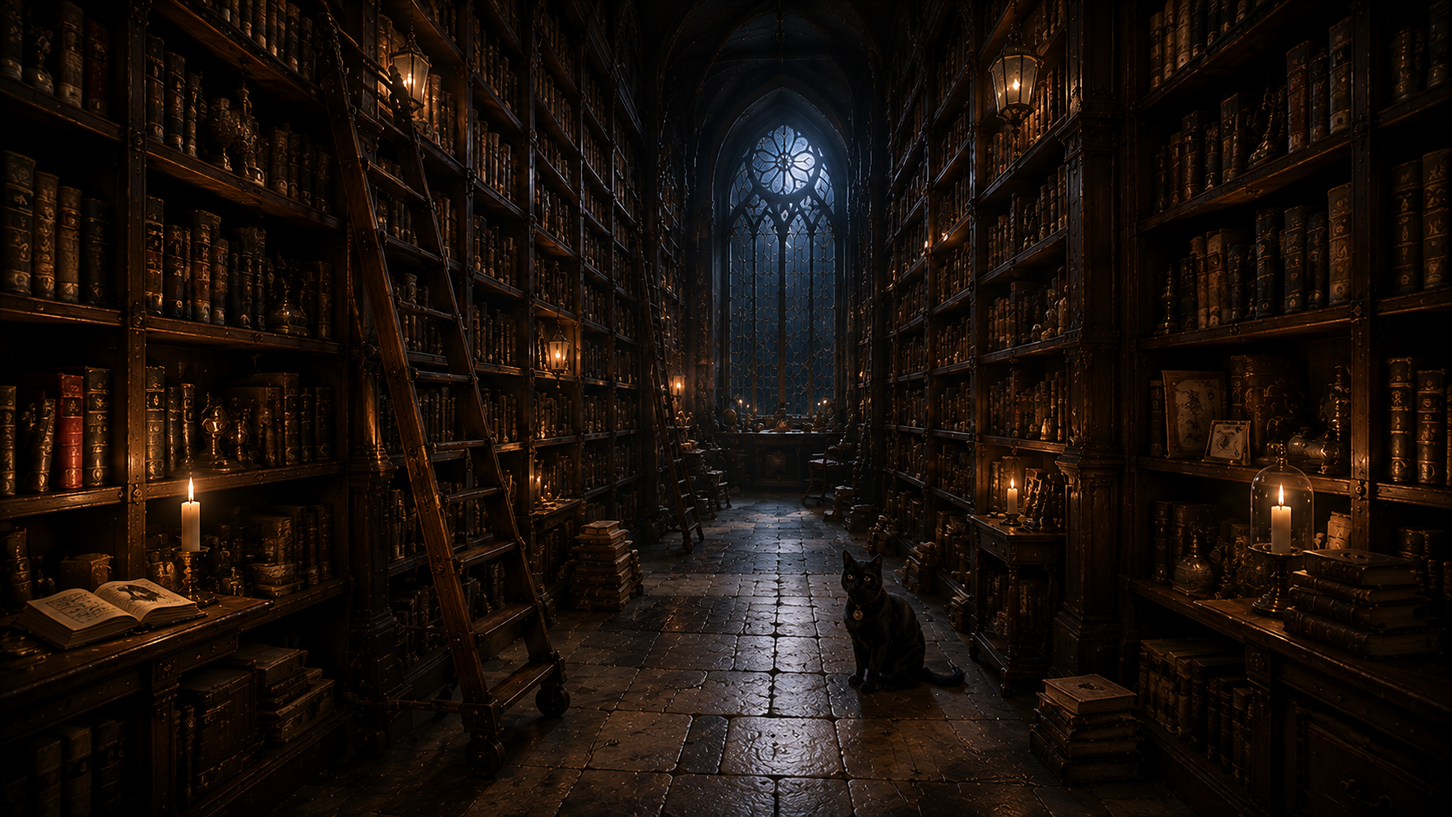
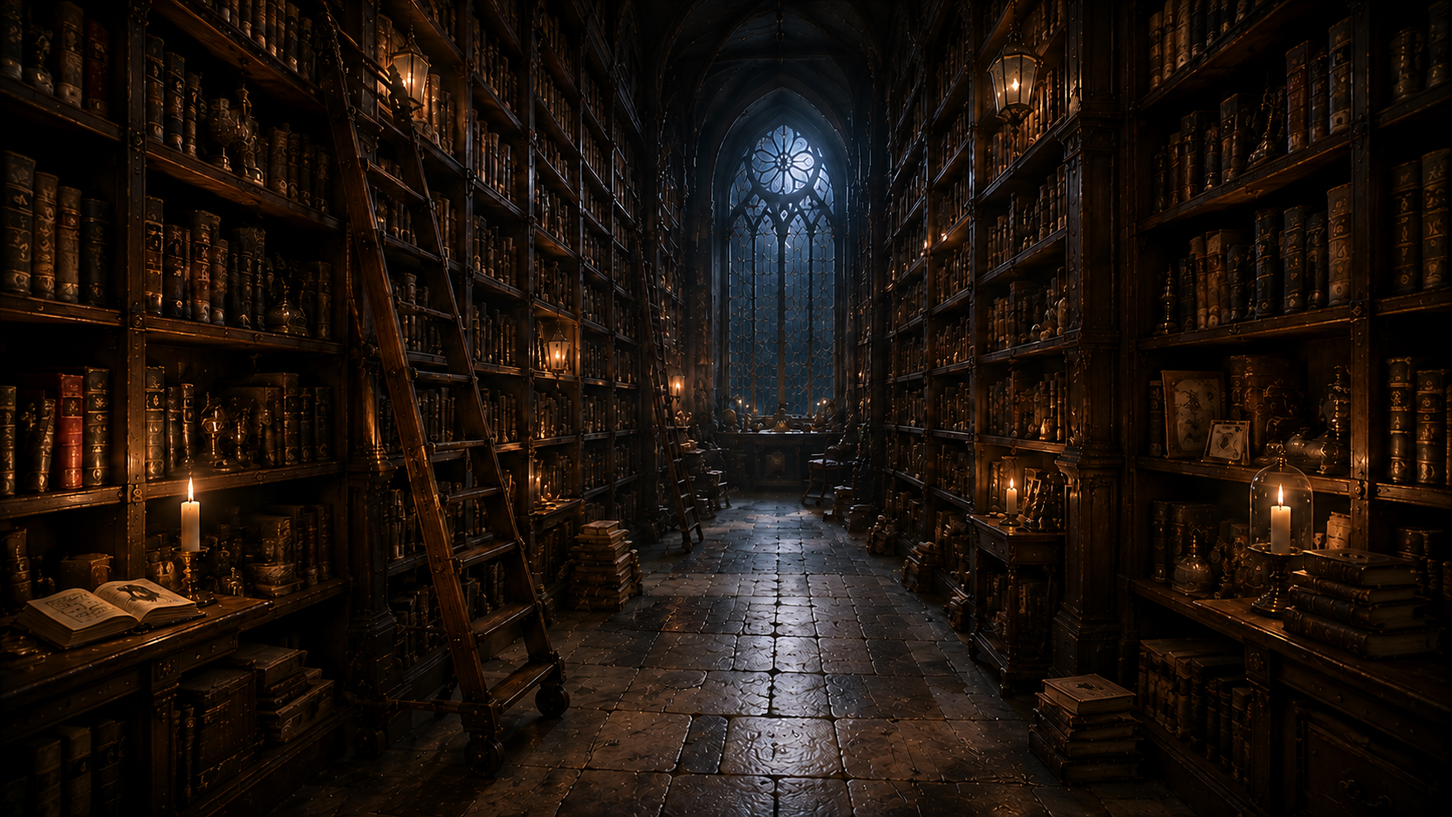
v 6

diff --git a/public/bookshelves.html b/public/bookshelves.html
@@ -37,10 +37,8 @@
   .astro{position:absolute;transform:translate(-50%,-100%);z-index:4;cursor:pointer;outline:none;}
   .astro .abody{position:relative;width:100%;transform-origin:bottom center;filter:drop-shadow(0 8px 16px rgba(0,0,0,.62));animation:breathe 5.5s ease-in-out infinite, stir 9s ease-in-out infinite;}
   .astro .abody img{display:block;width:100%;height:auto;}
-  .astro .abody .ablink{position:absolute;inset:0;opacity:0;animation:blink 6.4s ease-in-out infinite;}
   @keyframes breathe{0%,100%{scale:1 1;}50%{scale:1 1.014;}}
   @keyframes stir{0%,82%,100%{rotate:0deg;}90%{rotate:-1.5deg;}96%{rotate:.7deg;}}
-  @keyframes blink{0%,88%{opacity:0;}90%,91.5%{opacity:1;}93%{opacity:0;}94.5%,96%{opacity:1;}97.5%,100%{opacity:0;}}
   .astro.flip .abody{transform:scaleX(-1);}
   .astro .aglow{position:absolute;left:50%;bottom:4%;transform:translateX(-50%);width:126%;height:62%;border-radius:50%;pointer-events:none;mix-blend-mode:screen;opacity:0;background:radial-gradient(closest-side, rgba(190,210,255,.42), transparent 74%);transition:opacity .5s var(--ease);}
   .astro:hover .aglow,.astro:focus-visible .aglow,.astro.awake .aglow{opacity:.75;}
@@ -169,7 +167,7 @@
   <div class="fade" aria-hidden="true"></div>
 <script>
 (function(){
-  var ZONE = {"id":"bookshelves","title":"The Bookshelves","asset":"/assets/bookshelves-env.png","hotspots":[{"id":"rare-books","cat":"artifact","kind":"Rare Book","name":"A Rare Volume","line":"Bound in red, spine cracked with use.","verb":"Open","x":5,"y":42,"title":"A volume kept apart","body":"Not every book is meant to be lent. This one has been read to pieces and mended twice.\n\nThe margin notes aren’t mine. I’ve never found out whose they are."},{"id":"open-book","cat":"artifact","kind":"Journal","name":"An Open Book","line":"Left open on the reading stand.","verb":"Read","x":9,"y":70,"title":"Left open to a pressed flower","body":"Someone marked this page and never came back for it. The flower is long dry.\n\nWhatever they were reading, they meant to remember it."},{"id":"lost-page","cat":"artifact","kind":"Luna Note","name":"A Loose Page","line":"Sticking halfway out of the shelf.","verb":"Take","x":17,"y":58,"title":"A page that slipped its book","body":"It doesn’t belong to anything on these shelves. It just turns up — a little further along each time I look.\n\nKeep it. Pages like to be carried."},{"id":"globe","cat":"lore","kind":"Curio","name":"A Brass Globe","line":"The oceans worn smooth by hands.","verb":"Spin it","x":22,"y":52,"title":"The globe is wrong on purpose","body":"There’s a country on it that never existed. I keep it because someone I loved swore they’d been there.\n\nI’ve stopped correcting them, even in memory."},{"id":"ladder","cat":"nav","name":"The Secret Ladder","line":"The shelves keep climbing into the dark.","verb":"Climb","x":30,"y":52,"route":"/upstairs.html"},{"id":"candle-1","cat":"ambient","name":"A Candle","line":"Burned low, still holding.","verb":"","x":12,"y":64,"react":"The flame leans, steadies, holds."},{"id":"sketch","cat":"lore","kind":"Framed Sketch","name":"A Framed Sketch","line":"A face, half-finished.","verb":"Look closer","x":88,"y":50,"title":"The unfinished portrait","body":"I never finished it. Not because I couldn’t — because finishing it would have meant deciding who it was.\n\nSome faces are truer left as a question."},{"id":"astrolabe","cat":"lore","kind":"Instrument","name":"An Astrolabe","line":"Set to a sky that isn’t tonight’s.","verb":"Turn it","x":78,"y":60,"title":"Fixed on a borrowed sky","body":"It reads the stars of a night I keep going back to. The Observatory would call that sentimental. It would be right."},{"id":"drawer","cat":"ambient","name":"A Tiny Drawer","line":"Set into the shelf’s end.","verb":"Pull","x":97,"y":66,"react":"It slides an inch — then stops, as if thought better of."},{"id":"lever","cat":"rare","kind":"Rare Find","name":"A Hidden Lever","line":"A gap behind this row of books.","verb":"Pull","x":91,"y":40,"rare":true,"rarity":"legendary","title":"A small brass key","body":"No door it fits. Not yet. The House keeps a few of these — promises it hasn’t made good on.\n\nKeep it. A shelf you’ve walked past a hundred times may finally open.","closed":"The gap is only shadow tonight. Nothing gives."},{"id":"stacks","cat":"ambient","name":"Stacks on the Floor","line":"Waiting to be shelved.","verb":"","x":39,"y":88,"react":"The top book slides, settles, does not fall."},{"id":"window","cat":"lore","kind":"The Glass","name":"The Rose Window","line":"Moonlight in the coloured glass.","verb":"Look up","x":50,"y":26,"w":12,"h":20,"title":"The window keeps the moon","body":"Whatever the moon is doing tonight, the glass has already caught a version of it. The Observatory watches the real one; the Library keeps the memory."},{"id":"astro","cat":"cat","name":"Astro","line":"He was here before you.","verb":"","x":61,"y":80,"reacts":["He blinks, slowly.","His tail curls once, and settles.","He looks at you, then decides you’re allowed.","His collar catches the candlelight — ASTRO."]},{"id":"floorlamp","cat":"ambient","name":"A Candle in Glass","line":"Under a bell jar, steady.","verb":"","x":93,"y":60,"react":"The flame brightens, as if it heard you."}],"astro":null};
+  var ZONE = {"id":"bookshelves","title":"The Bookshelves","asset":"/assets/bookshelves-env.png","hotspots":[{"id":"rare-books","cat":"artifact","kind":"Rare Book","name":"A Rare Volume","line":"Bound in red, spine cracked with use.","verb":"Open","x":5,"y":42,"title":"A volume kept apart","body":"Not every book is meant to be lent. This one has been read to pieces and mended twice.\n\nThe margin notes aren’t mine. I’ve never found out whose they are."},{"id":"open-book","cat":"artifact","kind":"Journal","name":"An Open Book","line":"Left open on the reading stand.","verb":"Read","x":9,"y":70,"title":"Left open to a pressed flower","body":"Someone marked this page and never came back for it. The flower is long dry.\n\nWhatever they were reading, they meant to remember it."},{"id":"lost-page","cat":"artifact","kind":"Luna Note","name":"A Loose Page","line":"Sticking halfway out of the shelf.","verb":"Take","x":17,"y":58,"title":"A page that slipped its book","body":"It doesn’t belong to anything on these shelves. It just turns up — a little further along each time I look.\n\nKeep it. Pages like to be carried."},{"id":"globe","cat":"lore","kind":"Curio","name":"A Brass Globe","line":"The oceans worn smooth by hands.","verb":"Spin it","x":22,"y":52,"title":"The globe is wrong on purpose","body":"There’s a country on it that never existed. I keep it because someone I loved swore they’d been there.\n\nI’ve stopped correcting them, even in memory."},{"id":"ladder","cat":"nav","name":"The Secret Ladder","line":"The shelves keep climbing into the dark.","verb":"Climb","x":30,"y":52,"route":"/upstairs.html"},{"id":"candle-1","cat":"ambient","name":"A Candle","line":"Burned low, still holding.","verb":"","x":12,"y":64,"react":"The flame leans, steadies, holds."},{"id":"sketch","cat":"lore","kind":"Framed Sketch","name":"A Framed Sketch","line":"A face, half-finished.","verb":"Look closer","x":88,"y":50,"title":"The unfinished portrait","body":"I never finished it. Not because I couldn’t — because finishing it would have meant deciding who it was.\n\nSome faces are truer left as a question."},{"id":"astrolabe","cat":"lore","kind":"Instrument","name":"An Astrolabe","line":"Set to a sky that isn’t tonight’s.","verb":"Turn it","x":78,"y":60,"title":"Fixed on a borrowed sky","body":"It reads the stars of a night I keep going back to. The Observatory would call that sentimental. It would be right."},{"id":"drawer","cat":"ambient","name":"A Tiny Drawer","line":"Set into the shelf’s end.","verb":"Pull","x":97,"y":66,"react":"It slides an inch — then stops, as if thought better of."},{"id":"lever","cat":"rare","kind":"Rare Find","name":"A Hidden Lever","line":"A gap behind this row of books.","verb":"Pull","x":91,"y":40,"rare":true,"rarity":"legendary","title":"A small brass key","body":"No door it fits. Not yet. The House keeps a few of these — promises it hasn’t made good on.\n\nKeep it. A shelf you’ve walked past a hundred times may finally open.","closed":"The gap is only shadow tonight. Nothing gives."},{"id":"stacks","cat":"ambient","name":"Stacks on the Floor","line":"Waiting to be shelved.","verb":"","x":39,"y":88,"react":"The top book slides, settles, does not fall."},{"id":"window","cat":"lore","kind":"The Glass","name":"The Rose Window","line":"Moonlight in the coloured glass.","verb":"Look up","x":50,"y":26,"w":12,"h":20,"title":"The window keeps the moon","body":"Whatever the moon is doing tonight, the glass has already caught a version of it. The Observatory watches the real one; the Library keeps the memory."},{"id":"astro","cat":"cat","name":"Astro","line":"He was here before you.","verb":"","x":61,"y":80,"reacts":["He blinks, slowly.","His tail curls once, and settles.","He looks at you, then decides you’re allowed.","His collar catches the candlelight — ASTRO."]},{"id":"floorlamp","cat":"ambient","name":"A Candle in Glass","line":"Under a bell jar, steady.","verb":"","x":93,"y":60,"react":"The flame brightens, as if it heard you."}],"astro":{"w":10,"line":"He was here before you.","reacts":["He blinks, slowly.","His tail curls once, and settles.","He looks at you, then decides you’re allowed.","He was here before you. He’ll be here after."],"absent":true,"spots":[{"x":61,"y":90,"pose":"sit"},{"x":22,"y":90,"pose":"loaf"},{"x":82,"y":88,"pose":"curl"}]}};
   var reduce = matchMedia('(prefers-reduced-motion: reduce)').matches;
   var touch = matchMedia('(hover: none)').matches;
   var env=document.getElementById('env'), img=document.getElementById('envimg');
@@ -213,7 +211,7 @@
       var sp=A.spots[Math.floor(rand(hashId(ZONE.id+'-spot'))*A.spots.length)%A.spots.length];
       var a=document.createElement('div'); a.className='astro'+(sp.flip?' flip':''); a.tabIndex=0; a.setAttribute('role','button'); a.setAttribute('aria-label','Astro — '+A.line);
       a.style.left=sp.x+'%'; a.style.top=sp.y+'%'; a.style.width=A.w+'%';
-      a.innerHTML='<span class="aglow"></span><div class="abody"><img class="aopen" src="/assets/astro/'+sp.pose+'.png" alt="Astro"/><img class="ablink" src="/assets/astro/'+sp.pose+'-blink.png" alt=""/></div><span class="whisper"><span class="wl">'+A.line+'</span></span>';
+      a.innerHTML='<span class="aglow"></span><div class="abody"><img class="aopen" src="/assets/astro/'+sp.pose+'.png" alt="Astro"/></div><span class="whisper"><span class="wl">'+A.line+'</span></span>';
       env.appendChild(a);
       var abusy=false, an=0;
       var areact=function(){ if(abusy) return; abusy=true; an=(an+1)%A.reacts.length; a.classList.add('purr'); floatLine(sp.x, Math.max(6,sp.y-A.w-6), A.reacts[Math.floor(rand(hashId(ZONE.id+an+'r'))*A.reacts.length)%A.reacts.length]); setTimeout(function(){ a.classList.remove('purr'); abusy=false; },2600); };

diff --git a/public/hiddendesk.html b/public/hiddendesk.html
@@ -37,10 +37,8 @@
   .astro{position:absolute;transform:translate(-50%,-100%);z-index:4;cursor:pointer;outline:none;}
   .astro .abody{position:relative;width:100%;transform-origin:bottom center;filter:drop-shadow(0 8px 16px rgba(0,0,0,.62));animation:breathe 5.5s ease-in-out infinite, stir 9s ease-in-out infinite;}
   .astro .abody img{display:block;width:100%;height:auto;}
-  .astro .abody .ablink{position:absolute;inset:0;opacity:0;animation:blink 6.4s ease-in-out infinite;}
   @keyframes breathe{0%,100%{scale:1 1;}50%{scale:1 1.014;}}
   @keyframes stir{0%,82%,100%{rotate:0deg;}90%{rotate:-1.5deg;}96%{rotate:.7deg;}}
-  @keyframes blink{0%,88%{opacity:0;}90%,91.5%{opacity:1;}93%{opacity:0;}94.5%,96%{opacity:1;}97.5%,100%{opacity:0;}}
   .astro.flip .abody{transform:scaleX(-1);}
   .astro .aglow{position:absolute;left:50%;bottom:4%;transform:translateX(-50%);width:126%;height:62%;border-radius:50%;pointer-events:none;mix-blend-mode:screen;opacity:0;background:radial-gradient(closest-side, rgba(190,210,255,.42), transparent 74%);transition:opacity .5s var(--ease);}
   .astro:hover .aglow,.astro:focus-visible .aglow,.astro.awake .aglow{opacity:.75;}
@@ -169,7 +167,7 @@
   <div class="fade" aria-hidden="true"></div>
 <script>
 (function(){
-  var ZONE = {"id":"hiddendesk","title":"The Hidden Desk","asset":"/assets/hiddendesk-env.png","hotspots":[{"id":"letters","cat":"artifact","kind":"Letter","name":"The Letters","line":"Pinned where they can be seen.","verb":"Break the seal","x":30,"y":26,"title":"Letters I never sent","body":"Some of these are to people. Some are to versions of myself I didn’t become.\n\nI pin them up so I remember I meant them."},{"id":"ledger","cat":"artifact","kind":"Journal","name":"The Open Ledger","line":"Someone stopped writing mid-line.","verb":"Read","x":48,"y":58,"title":"The sentence breaks off here","body":"“—and if it works, then everything after this is going to be—”\n\nThat’s where I stopped. I don’t remember why. I never finished it."},{"id":"seal-wax","cat":"artifact","kind":"Quote","name":"A Wax Seal","line":"A sigil pressed in deep red.","verb":"Take it","x":40,"y":66,"title":"The House’s mark","body":"Not a logo. A promise, pressed into wax: what’s made here is made carefully, or not at all."},{"id":"drawer-hd","cat":"rare","kind":"Rare Find","name":"The Drawer","line":"Locked, most days.","verb":"Open","x":72,"y":82,"rare":true,"rarity":"legendary","title":"The drawer gives","body":"It doesn’t open when you want it to. It opens when it’s ready — and today it was.\n\nInside: something small, and clearly kept for a reason. Keep it.","closed":"Locked, still. The drawer keeps its own hours, and today is not the day."},{"id":"lantern-hd","cat":"ambient","name":"The Lantern","line":"Turned low against the dark.","verb":"","x":74,"y":42,"react":"You turn it up a little. The nook leans in around the light."},{"id":"quill-hd","cat":"ambient","name":"The Quill","line":"Nib still wet.","verb":"","x":66,"y":52,"react":"A drop of ink gathers at the nib, and does not fall."},{"id":"pinned","cat":"lore","kind":"Pinned Notes","name":"Pinned Diagrams","line":"A wall of half-plans.","verb":"Look closer","x":30,"y":20,"title":"The wall of maybe","body":"Ideas I pinned up so they’d stop following me around. Half are nonsense. One or two are the whole reason this House exists. I won’t tell you which."},{"id":"candles-hd","cat":"ambient","name":"The Candles","line":"Three, burning together.","verb":"","x":42,"y":44,"react":"The three flames sway as one. Someone opened a door, far off."},{"id":"chair-hd","cat":"passage","name":"The Chair","line":"Worn to the shape of long nights.","verb":"Sit","x":40,"y":82,"narration":"You sit where the writing happens. The room narrows to a lamp, a page, and the sound of your own thinking. This is where the House is most itself."},{"id":"astro-hd","cat":"cat","name":"Astro","line":"Asleep on the windowsill.","verb":"","x":60,"y":33,"reacts":["He stirs, resettles, guards the desk in his sleep.","One ear turns toward you. The rest of him declines.","He yawns enormously, and returns to duty."]},{"id":"window-hd","cat":"lore","kind":"The Glass","name":"The Window","line":"Ivy and moonlight beyond.","verb":"Look up","x":60,"y":22,"w":9,"h":16,"title":"The night keeps watch too","body":"The ivy has half-taken the glass. I let it. Some things should be a little overgrown, a little hidden. That’s the whole point of a nook."}],"astro":null};
+  var ZONE = {"id":"hiddendesk","title":"The Hidden Desk","asset":"/assets/hiddendesk-env.png","hotspots":[{"id":"letters","cat":"artifact","kind":"Letter","name":"The Letters","line":"Pinned where they can be seen.","verb":"Break the seal","x":30,"y":26,"title":"Letters I never sent","body":"Some of these are to people. Some are to versions of myself I didn’t become.\n\nI pin them up so I remember I meant them."},{"id":"ledger","cat":"artifact","kind":"Journal","name":"The Open Ledger","line":"Someone stopped writing mid-line.","verb":"Read","x":48,"y":58,"title":"The sentence breaks off here","body":"“—and if it works, then everything after this is going to be—”\n\nThat’s where I stopped. I don’t remember why. I never finished it."},{"id":"seal-wax","cat":"artifact","kind":"Quote","name":"A Wax Seal","line":"A sigil pressed in deep red.","verb":"Take it","x":40,"y":66,"title":"The House’s mark","body":"Not a logo. A promise, pressed into wax: what’s made here is made carefully, or not at all."},{"id":"drawer-hd","cat":"rare","kind":"Rare Find","name":"The Drawer","line":"Locked, most days.","verb":"Open","x":72,"y":82,"rare":true,"rarity":"legendary","title":"The drawer gives","body":"It doesn’t open when you want it to. It opens when it’s ready — and today it was.\n\nInside: something small, and clearly kept for a reason. Keep it.","closed":"Locked, still. The drawer keeps its own hours, and today is not the day."},{"id":"lantern-hd","cat":"ambient","name":"The Lantern","line":"Turned low against the dark.","verb":"","x":74,"y":42,"react":"You turn it up a little. The nook leans in around the light."},{"id":"quill-hd","cat":"ambient","name":"The Quill","line":"Nib still wet.","verb":"","x":66,"y":52,"react":"A drop of ink gathers at the nib, and does not fall."},{"id":"pinned","cat":"lore","kind":"Pinned Notes","name":"Pinned Diagrams","line":"A wall of half-plans.","verb":"Look closer","x":30,"y":20,"title":"The wall of maybe","body":"Ideas I pinned up so they’d stop following me around. Half are nonsense. One or two are the whole reason this House exists. I won’t tell you which."},{"id":"candles-hd","cat":"ambient","name":"The Candles","line":"Three, burning together.","verb":"","x":42,"y":44,"react":"The three flames sway as one. Someone opened a door, far off."},{"id":"chair-hd","cat":"passage","name":"The Chair","line":"Worn to the shape of long nights.","verb":"Sit","x":40,"y":82,"narration":"You sit where the writing happens. The room narrows to a lamp, a page, and the sound of your own thinking. This is where the House is most itself."},{"id":"astro-hd","cat":"cat","name":"Astro","line":"Asleep on the windowsill.","verb":"","x":60,"y":33,"reacts":["He stirs, resettles, guards the desk in his sleep.","One ear turns toward you. The rest of him declines.","He yawns enormously, and returns to duty."]},{"id":"window-hd","cat":"lore","kind":"The Glass","name":"The Window","line":"Ivy and moonlight beyond.","verb":"Look up","x":60,"y":22,"w":9,"h":16,"title":"The night keeps watch too","body":"The ivy has half-taken the glass. I let it. Some things should be a little overgrown, a little hidden. That’s the whole point of a nook."}],"astro":{"w":8,"line":"Keeping the desk company.","reacts":["He guards the desk, even in his sleep.","One ear turns toward you. The rest of him declines.","He yawns enormously, and returns to duty."],"absent":true,"spots":[{"x":40,"y":89,"pose":"sit"},{"x":70,"y":91,"pose":"curl"}]}};
   var reduce = matchMedia('(prefers-reduced-motion: reduce)').matches;
   var touch = matchMedia('(hover: none)').matches;
   var env=document.getElementById('env'), img=document.getElementById('envimg');
@@ -213,7 +211,7 @@
       var sp=A.spots[Math.floor(rand(hashId(ZONE.id+'-spot'))*A.spots.length)%A.spots.length];
       var a=document.createElement('div'); a.className='astro'+(sp.flip?' flip':''); a.tabIndex=0; a.setAttribute('role','button'); a.setAttribute('aria-label','Astro — '+A.line);
       a.style.left=sp.x+'%'; a.style.top=sp.y+'%'; a.style.width=A.w+'%';
-      a.innerHTML='<span class="aglow"></span><div class="abody"><img class="aopen" src="/assets/astro/'+sp.pose+'.png" alt="Astro"/><img class="ablink" src="/assets/astro/'+sp.pose+'-blink.png" alt=""/></div><span class="whisper"><span class="wl">'+A.line+'</span></span>';
+      a.innerHTML='<span class="aglow"></span><div class="abody"><img class="aopen" src="/assets/astro/'+sp.pose+'.png" alt="Astro"/></div><span class="whisper"><span class="wl">'+A.line+'</span></span>';
       env.appendChild(a);
       var abusy=false, an=0;
       var areact=function(){ if(abusy) return; abusy=true; an=(an+1)%A.reacts.length; a.classList.add('purr'); floatLine(sp.x, Math.max(6,sp.y-A.w-6), A.reacts[Math.floor(rand(hashId(ZONE.id+an+'r'))*A.reacts.length)%A.reacts.length]); setTimeout(function(){ a.classList.remove('purr'); abusy=false; },2600); };

diff --git a/public/terminal.html b/public/terminal.html
@@ -37,10 +37,8 @@
   .astro{position:absolute;transform:translate(-50%,-100%);z-index:4;cursor:pointer;outline:none;}
   .astro .abody{position:relative;width:100%;transform-origin:bottom center;filter:drop-shadow(0 8px 16px rgba(0,0,0,.62));animation:breathe 5.5s ease-in-out infinite, stir 9s ease-in-out infinite;}
   .astro .abody img{display:block;width:100%;height:auto;}
-  .astro .abody .ablink{position:absolute;inset:0;opacity:0;animation:blink 6.4s ease-in-out infinite;}
   @keyframes breathe{0%,100%{scale:1 1;}50%{scale:1 1.014;}}
   @keyframes stir{0%,82%,100%{rotate:0deg;}90%{rotate:-1.5deg;}96%{rotate:.7deg;}}
-  @keyframes blink{0%,88%{opacity:0;}90%,91.5%{opacity:1;}93%{opacity:0;}94.5%,96%{opacity:1;}97.5%,100%{opacity:0;}}
   .astro.flip .abody{transform:scaleX(-1);}
   .astro .aglow{position:absolute;left:50%;bottom:4%;transform:translateX(-50%);width:126%;height:62%;border-radius:50%;pointer-events:none;mix-blend-mode:screen;opacity:0;background:radial-gradient(closest-side, rgba(190,210,255,.42), transparent 74%);transition:opacity .5s var(--ease);}
   .astro:hover .aglow,.astro:focus-visible .aglow,.astro.awake .aglow{opacity:.75;}
@@ -169,7 +167,7 @@
   <div class="fade" aria-hidden="true"></div>
 <script>
 (function(){
-  var ZONE = {"id":"terminal","title":"The Terminal","asset":"/assets/terminal-env.png","hotspots":[{"id":"threads","cat":"nav","name":"Threads","line":"The feed, still scrolling in the dark.","verb":"Open","x":44,"y":40,"route":""},{"id":"substack","cat":"artifact","kind":"Journal","name":"Substack","line":"The last essay, printed and pinned.","verb":"Read","x":84,"y":42,"title":"The long-form shelf","body":"The things too big for a post end up here — the essays, the letters that go out to the ones who stayed.\n\n(The archive links in soon.)"},{"id":"logs","cat":"lore","kind":"Observatory Log","name":"Observatory Logs","line":"A star-chart, annotated by hand.","verb":"Read","x":82,"y":24,"title":"“Logged from the far wing.”","body":"Readings the Observatory sends down the line. I don’t always understand them. I keep them anyway."},{"id":"screen","cat":"ambient","name":"The Screen","line":"The cursor blinks, patient.","verb":"","x":44,"y":40,"w":12,"h":16,"react":"The cursor blinks twice, and a line of green text scrolls up from nowhere, then clears."},{"id":"egg","cat":"rare","kind":"Rare Find","name":"The Keyboard","line":"Worn where the hands go.","verb":"Type","x":40,"y":62,"rare":true,"title":"> the House answers","body":"You typed nothing, and it answered anyway. Some nights the Terminal is in a mood to talk.\n\nKeep what it said. It won’t say it twice.","closed":"You press a key. Nothing. The Terminal is only listening tonight."},{"id":"mug","cat":"ambient","name":"A Cold Mug","line":"A ring dried at the bottom.","verb":"","x":60,"y":58,"react":"Long cold. Whoever sat here left in a hurry, or forgot the hour. Both happen, here."},{"id":"lantern-t","cat":"ambient","name":"The Lamp","line":"Warm, beside the cold glow.","verb":"","x":74,"y":58,"react":"You turn it up. Warm light and cold light meet on the desk, and neither wins."},{"id":"chair-t","cat":"passage","name":"The Chair","line":"Angled to the screen.","verb":"Sit","x":18,"y":70,"narration":"You sit. The monitor-glow finds your face, cold and blue. For a moment you’re where the House touches the loud world — and it’s quiet here, still."},{"id":"papers-t","cat":"lore","kind":"Printouts","name":"A Stack of Printouts","line":"Draft after draft.","verb":"Look closer","x":86,"y":60,"title":"The paper trail","body":"Everything the screen has ever said, printed and kept. I trust paper more than pixels. Paper doesn’t update itself while you sleep."},{"id":"astro-t","cat":"cat","name":"Astro","line":"Watching the screen, unblinking.","verb":"","x":12,"y":44,"reacts":["He stares at the cursor like it owes him something. Maybe it does.","His eyes track a line of text no one typed.","He sits in the coldest light in the House, content."]}],"astro":null};
+  var ZONE = {"id":"terminal","title":"The Terminal","asset":"/assets/terminal-env.png","hotspots":[{"id":"threads","cat":"nav","name":"Threads","line":"The feed, still scrolling in the dark.","verb":"Open","x":44,"y":40,"route":""},{"id":"substack","cat":"artifact","kind":"Journal","name":"Substack","line":"The last essay, printed and pinned.","verb":"Read","x":84,"y":42,"title":"The long-form shelf","body":"The things too big for a post end up here — the essays, the letters that go out to the ones who stayed.\n\n(The archive links in soon.)"},{"id":"logs","cat":"lore","kind":"Observatory Log","name":"Observatory Logs","line":"A star-chart, annotated by hand.","verb":"Read","x":82,"y":24,"title":"“Logged from the far wing.”","body":"Readings the Observatory sends down the line. I don’t always understand them. I keep them anyway."},{"id":"screen","cat":"ambient","name":"The Screen","line":"The cursor blinks, patient.","verb":"","x":44,"y":40,"w":12,"h":16,"react":"The cursor blinks twice, and a line of green text scrolls up from nowhere, then clears."},{"id":"egg","cat":"rare","kind":"Rare Find","name":"The Keyboard","line":"Worn where the hands go.","verb":"Type","x":40,"y":62,"rare":true,"title":"> the House answers","body":"You typed nothing, and it answered anyway. Some nights the Terminal is in a mood to talk.\n\nKeep what it said. It won’t say it twice.","closed":"You press a key. Nothing. The Terminal is only listening tonight."},{"id":"mug","cat":"ambient","name":"A Cold Mug","line":"A ring dried at the bottom.","verb":"","x":60,"y":58,"react":"Long cold. Whoever sat here left in a hurry, or forgot the hour. Both happen, here."},{"id":"lantern-t","cat":"ambient","name":"The Lamp","line":"Warm, beside the cold glow.","verb":"","x":74,"y":58,"react":"You turn it up. Warm light and cold light meet on the desk, and neither wins."},{"id":"chair-t","cat":"passage","name":"The Chair","line":"Angled to the screen.","verb":"Sit","x":18,"y":70,"narration":"You sit. The monitor-glow finds your face, cold and blue. For a moment you’re where the House touches the loud world — and it’s quiet here, still."},{"id":"papers-t","cat":"lore","kind":"Printouts","name":"A Stack of Printouts","line":"Draft after draft.","verb":"Look closer","x":86,"y":60,"title":"The paper trail","body":"Everything the screen has ever said, printed and kept. I trust paper more than pixels. Paper doesn’t update itself while you sleep."},{"id":"astro-t","cat":"cat","name":"Astro","line":"Watching the screen, unblinking.","verb":"","x":12,"y":44,"reacts":["He stares at the cursor like it owes him something. Maybe it does.","His eyes track a line of text no one typed.","He sits in the coldest light in the House, content."]}],"astro":{"w":9,"line":"Watching the screen, unblinking.","reacts":["He stares at the cursor like it owes him something.","He sits in the coldest light in the House, content.","His eyes track a line of text no one typed."],"absent":true,"spots":[{"x":12,"y":72,"pose":"sit"},{"x":82,"y":72,"pose":"loaf"}]}};
   var reduce = matchMedia('(prefers-reduced-motion: reduce)').matches;
   var touch = matchMedia('(hover: none)').matches;
   var env=document.getElementById('env'), img=document.getElementById('envimg');
@@ -213,7 +211,7 @@
       var sp=A.spots[Math.floor(rand(hashId(ZONE.id+'-spot'))*A.spots.length)%A.spots.length];
       var a=document.createElement('div'); a.className='astro'+(sp.flip?' flip':''); a.tabIndex=0; a.setAttribute('role','button'); a.setAttribute('aria-label','Astro — '+A.line);
       a.style.left=sp.x+'%'; a.style.top=sp.y+'%'; a.style.width=A.w+'%';
-      a.innerHTML='<span class="aglow"></span><div class="abody"><img class="aopen" src="/assets/astro/'+sp.pose+'.png" alt="Astro"/><img class="ablink" src="/assets/astro/'+sp.pose+'-blink.png" alt=""/></div><span class="whisper"><span class="wl">'+A.line+'</span></span>';
+      a.innerHTML='<span class="aglow"></span><div class="abody"><img class="aopen" src="/assets/astro/'+sp.pose+'.png" alt="Astro"/></div><span class="whisper"><span class="wl">'+A.line+'</span></span>';
       env.appendChild(a);
       var abusy=false, an=0;
       var areact=function(){ if(abusy) return; abusy=true; an=(an+1)%A.reacts.length; a.classList.add('purr'); floatLine(sp.x, Math.max(6,sp.y-A.w-6), A.reacts[Math.floor(rand(hashId(ZONE.id+an+'r'))*A.reacts.length)%A.reacts.length]); setTimeout(function(){ a.classList.remove('purr'); abusy=false; },2600); };

diff --git a/public/fireplace.html b/public/fireplace.html
@@ -37,10 +37,8 @@
   .astro{position:absolute;transform:translate(-50%,-100%);z-index:4;cursor:pointer;outline:none;}
   .astro .abody{position:relative;width:100%;transform-origin:bottom center;filter:drop-shadow(0 8px 16px rgba(0,0,0,.62));animation:breathe 5.5s ease-in-out infinite, stir 9s ease-in-out infinite;}
   .astro .abody img{display:block;width:100%;height:auto;}
-  .astro .abody .ablink{position:absolute;inset:0;opacity:0;animation:blink 6.4s ease-in-out infinite;}
   @keyframes breathe{0%,100%{scale:1 1;}50%{scale:1 1.014;}}
   @keyframes stir{0%,82%,100%{rotate:0deg;}90%{rotate:-1.5deg;}96%{rotate:.7deg;}}
-  @keyframes blink{0%,88%{opacity:0;}90%,91.5%{opacity:1;}93%{opacity:0;}94.5%,96%{opacity:1;}97.5%,100%{opacity:0;}}
   .astro.flip .abody{transform:scaleX(-1);}
   .astro .aglow{position:absolute;left:50%;bottom:4%;transform:translateX(-50%);width:126%;height:62%;border-radius:50%;pointer-events:none;mix-blend-mode:screen;opacity:0;background:radial-gradient(closest-side, rgba(190,210,255,.42), transparent 74%);transition:opacity .5s var(--ease);}
   .astro:hover .aglow,.astro:focus-visible .aglow,.astro.awake .aglow{opacity:.75;}
@@ -213,7 +211,7 @@
       var sp=A.spots[Math.floor(rand(hashId(ZONE.id+'-spot'))*A.spots.length)%A.spots.length];
       var a=document.createElement('div'); a.className='astro'+(sp.flip?' flip':''); a.tabIndex=0; a.setAttribute('role','button'); a.setAttribute('aria-label','Astro — '+A.line);
       a.style.left=sp.x+'%'; a.style.top=sp.y+'%'; a.style.width=A.w+'%';
-      a.innerHTML='<span class="aglow"></span><div class="abody"><img class="aopen" src="/assets/astro/'+sp.pose+'.png" alt="Astro"/><img class="ablink" src="/assets/astro/'+sp.pose+'-blink.png" alt=""/></div><span class="whisper"><span class="wl">'+A.line+'</span></span>';
+      a.innerHTML='<span class="aglow"></span><div class="abody"><img class="aopen" src="/assets/astro/'+sp.pose+'.png" alt="Astro"/></div><span class="whisper"><span class="wl">'+A.line+'</span></span>';
       env.appendChild(a);
       var abusy=false, an=0;
       var areact=function(){ if(abusy) return; abusy=true; an=(an+1)%A.reacts.length; a.classList.add('purr'); floatLine(sp.x, Math.max(6,sp.y-A.w-6), A.reacts[Math.floor(rand(hashId(ZONE.id+an+'r'))*A.reacts.length)%A.reacts.length]); setTimeout(function(){ a.classList.remove('purr'); abusy=false; },2600); };

diff --git a/public/loosepages.html b/public/loosepages.html
@@ -37,10 +37,8 @@
   .astro{position:absolute;transform:translate(-50%,-100%);z-index:4;cursor:pointer;outline:none;}
   .astro .abody{position:relative;width:100%;transform-origin:bottom center;filter:drop-shadow(0 8px 16px rgba(0,0,0,.62));animation:breathe 5.5s ease-in-out infinite, stir 9s ease-in-out infinite;}
   .astro .abody img{display:block;width:100%;height:auto;}
-  .astro .abody .ablink{position:absolute;inset:0;opacity:0;animation:blink 6.4s ease-in-out infinite;}
   @keyframes breathe{0%,100%{scale:1 1;}50%{scale:1 1.014;}}
   @keyframes stir{0%,82%,100%{rotate:0deg;}90%{rotate:-1.5deg;}96%{rotate:.7deg;}}
-  @keyframes blink{0%,88%{opacity:0;}90%,91.5%{opacity:1;}93%{opacity:0;}94.5%,96%{opacity:1;}97.5%,100%{opacity:0;}}
   .astro.flip .abody{transform:scaleX(-1);}
   .astro .aglow{position:absolute;left:50%;bottom:4%;transform:translateX(-50%);width:126%;height:62%;border-radius:50%;pointer-events:none;mix-blend-mode:screen;opacity:0;background:radial-gradient(closest-side, rgba(190,210,255,.42), transparent 74%);transition:opacity .5s var(--ease);}
   .astro:hover .aglow,.astro:focus-visible .aglow,.astro.awake .aglow{opacity:.75;}
@@ -213,7 +211,7 @@
       var sp=A.spots[Math.floor(rand(hashId(ZONE.id+'-spot'))*A.spots.length)%A.spots.length];
       var a=document.createElement('div'); a.className='astro'+(sp.flip?' flip':''); a.tabIndex=0; a.setAttribute('role','button'); a.setAttribute('aria-label','Astro — '+A.line);
       a.style.left=sp.x+'%'; a.style.top=sp.y+'%'; a.style.width=A.w+'%';
-      a.innerHTML='<span class="aglow"></span><div class="abody"><img class="aopen" src="/assets/astro/'+sp.pose+'.png" alt="Astro"/><img class="ablink" src="/assets/astro/'+sp.pose+'-blink.png" alt=""/></div><span class="whisper"><span class="wl">'+A.line+'</span></span>';
+      a.innerHTML='<span class="aglow"></span><div class="abody"><img class="aopen" src="/assets/astro/'+sp.pose+'.png" alt="Astro"/></div><span class="whisper"><span class="wl">'+A.line+'</span></span>';
       env.appendChild(a);
       var abusy=false, an=0;
       var areact=function(){ if(abusy) return; abusy=true; an=(an+1)%A.reacts.length; a.classList.add('purr'); floatLine(sp.x, Math.max(6,sp.y-A.w-6), A.reacts[Math.floor(rand(hashId(ZONE.id+an+'r'))*A.reacts.length)%A.reacts.length]); setTimeout(function(){ a.classList.remove('purr'); abusy=false; },2600); };

diff --git a/public/maintable.html b/public/maintable.html
@@ -37,10 +37,8 @@
   .astro{position:absolute;transform:translate(-50%,-100%);z-index:4;cursor:pointer;outline:none;}
   .astro .abody{position:relative;width:100%;transform-origin:bottom center;filter:drop-shadow(0 8px 16px rgba(0,0,0,.62));animation:breathe 5.5s ease-in-out infinite, stir 9s ease-in-out infinite;}
   .astro .abody img{display:block;width:100%;height:auto;}
-  .astro .abody .ablink{position:absolute;inset:0;opacity:0;animation:blink 6.4s ease-in-out infinite;}
   @keyframes breathe{0%,100%{scale:1 1;}50%{scale:1 1.014;}}
   @keyframes stir{0%,82%,100%{rotate:0deg;}90%{rotate:-1.5deg;}96%{rotate:.7deg;}}
-  @keyframes blink{0%,88%{opacity:0;}90%,91.5%{opacity:1;}93%{opacity:0;}94.5%,96%{opacity:1;}97.5%,100%{opacity:0;}}
   .astro.flip .abody{transform:scaleX(-1);}
   .astro .aglow{position:absolute;left:50%;bottom:4%;transform:translateX(-50%);width:126%;height:62%;border-radius:50%;pointer-events:none;mix-blend-mode:screen;opacity:0;background:radial-gradient(closest-side, rgba(190,210,255,.42), transparent 74%);transition:opacity .5s var(--ease);}
   .astro:hover .aglow,.astro:focus-visible .aglow,.astro.awake .aglow{opacity:.75;}
@@ -213,7 +211,7 @@
       var sp=A.spots[Math.floor(rand(hashId(ZONE.id+'-spot'))*A.spots.length)%A.spots.length];
       var a=document.createElement('div'); a.className='astro'+(sp.flip?' flip':''); a.tabIndex=0; a.setAttribute('role','button'); a.setAttribute('aria-label','Astro — '+A.line);
       a.style.left=sp.x+'%'; a.style.top=sp.y+'%'; a.style.width=A.w+'%';
-      a.innerHTML='<span class="aglow"></span><div class="abody"><img class="aopen" src="/assets/astro/'+sp.pose+'.png" alt="Astro"/><img class="ablink" src="/assets/astro/'+sp.pose+'-blink.png" alt=""/></div><span class="whisper"><span class="wl">'+A.line+'</span></span>';
+      a.innerHTML='<span class="aglow"></span><div class="abody"><img class="aopen" src="/assets/astro/'+sp.pose+'.png" alt="Astro"/></div><span class="whisper"><span class="wl">'+A.line+'</span></span>';
       env.appendChild(a);
       var abusy=false, an=0;
       var areact=function(){ if(abusy) return; abusy=true; an=(an+1)%A.reacts.length; a.classList.add('purr'); floatLine(sp.x, Math.max(6,sp.y-A.w-6), A.reacts[Math.floor(rand(hashId(ZONE.id+an+'r'))*A.reacts.length)%A.reacts.length]); setTimeout(function(){ a.classList.remove('purr'); abusy=false; },2600); };

diff --git a/public/mirror.html b/public/mirror.html
@@ -37,10 +37,8 @@
   .astro{position:absolute;transform:translate(-50%,-100%);z-index:4;cursor:pointer;outline:none;}
   .astro .abody{position:relative;width:100%;transform-origin:bottom center;filter:drop-shadow(0 8px 16px rgba(0,0,0,.62));animation:breathe 5.5s ease-in-out infinite, stir 9s ease-in-out infinite;}
   .astro .abody img{display:block;width:100%;height:auto;}
-  .astro .abody .ablink{position:absolute;inset:0;opacity:0;animation:blink 6.4s ease-in-out infinite;}
   @keyframes breathe{0%,100%{scale:1 1;}50%{scale:1 1.014;}}
   @keyframes stir{0%,82%,100%{rotate:0deg;}90%{rotate:-1.5deg;}96%{rotate:.7deg;}}
-  @keyframes blink{0%,88%{opacity:0;}90%,91.5%{opacity:1;}93%{opacity:0;}94.5%,96%{opacity:1;}97.5%,100%{opacity:0;}}
   .astro.flip .abody{transform:scaleX(-1);}
   .astro .aglow{position:absolute;left:50%;bottom:4%;transform:translateX(-50%);width:126%;height:62%;border-radius:50%;pointer-events:none;mix-blend-mode:screen;opacity:0;background:radial-gradient(closest-side, rgba(190,210,255,.42), transparent 74%);transition:opacity .5s var(--ease);}
   .astro:hover .aglow,.astro:focus-visible .aglow,.astro.awake .aglow{opacity:.75;}
@@ -213,7 +211,7 @@
       var sp=A.spots[Math.floor(rand(hashId(ZONE.id+'-spot'))*A.spots.length)%A.spots.length];
       var a=document.createElement('div'); a.className='astro'+(sp.flip?' flip':''); a.tabIndex=0; a.setAttribute('role','button'); a.setAttribute('aria-label','Astro — '+A.line);
       a.style.left=sp.x+'%'; a.style.top=sp.y+'%'; a.style.width=A.w+'%';
-      a.innerHTML='<span class="aglow"></span><div class="abody"><img class="aopen" src="/assets/astro/'+sp.pose+'.png" alt="Astro"/><img class="ablink" src="/assets/astro/'+sp.pose+'-blink.png" alt=""/></div><span class="whisper"><span class="wl">'+A.line+'</span></span>';
+      a.innerHTML='<span class="aglow"></span><div class="abody"><img class="aopen" src="/assets/astro/'+sp.pose+'.png" alt="Astro"/></div><span class="whisper"><span class="wl">'+A.line+'</span></span>';
       env.appendChild(a);
       var abusy=false, an=0;
       var areact=function(){ if(abusy) return; abusy=true; an=(an+1)%A.reacts.length; a.classList.add('purr'); floatLine(sp.x, Math.max(6,sp.y-A.w-6), A.reacts[Math.floor(rand(hashId(ZONE.id+an+'r'))*A.reacts.length)%A.reacts.length]); setTimeout(function(){ a.classList.remove('purr'); abusy=false; },2600); };

diff --git a/public/secretpatio.html b/public/secretpatio.html
@@ -37,10 +37,8 @@
   .astro{position:absolute;transform:translate(-50%,-100%);z-index:4;cursor:pointer;outline:none;}
   .astro .abody{position:relative;width:100%;transform-origin:bottom center;filter:drop-shadow(0 8px 16px rgba(0,0,0,.62));animation:breathe 5.5s ease-in-out infinite, stir 9s ease-in-out infinite;}
   .astro .abody img{display:block;width:100%;height:auto;}
-  .astro .abody .ablink{position:absolute;inset:0;opacity:0;animation:blink 6.4s ease-in-out infinite;}
   @keyframes breathe{0%,100%{scale:1 1;}50%{scale:1 1.014;}}
   @keyframes stir{0%,82%,100%{rotate:0deg;}90%{rotate:-1.5deg;}96%{rotate:.7deg;}}
-  @keyframes blink{0%,88%{opacity:0;}90%,91.5%{opacity:1;}93%{opacity:0;}94.5%,96%{opacity:1;}97.5%,100%{opacity:0;}}
   .astro.flip .abody{transform:scaleX(-1);}
   .astro .aglow{position:absolute;left:50%;bottom:4%;transform:translateX(-50%);width:126%;height:62%;border-radius:50%;pointer-events:none;mix-blend-mode:screen;opacity:0;background:radial-gradient(closest-side, rgba(190,210,255,.42), transparent 74%);transition:opacity .5s var(--ease);}
   .astro:hover .aglow,.astro:focus-visible .aglow,.astro.awake .aglow{opacity:.75;}
@@ -213,7 +211,7 @@
       var sp=A.spots[Math.floor(rand(hashId(ZONE.id+'-spot'))*A.spots.length)%A.spots.length];
       var a=document.createElement('div'); a.className='astro'+(sp.flip?' flip':''); a.tabIndex=0; a.setAttribute('role','button'); a.setAttribute('aria-label','Astro — '+A.line);
       a.style.left=sp.x+'%'; a.style.top=sp.y+'%'; a.style.width=A.w+'%';
-      a.innerHTML='<span class="aglow"></span><div class="abody"><img class="aopen" src="/assets/astro/'+sp.pose+'.png" alt="Astro"/><img class="ablink" src="/assets/astro/'+sp.pose+'-blink.png" alt=""/></div><span class="whisper"><span class="wl">'+A.line+'</span></span>';
+      a.innerHTML='<span class="aglow"></span><div class="abody"><img class="aopen" src="/assets/astro/'+sp.pose+'.png" alt="Astro"/></div><span class="whisper"><span class="wl">'+A.line+'</span></span>';
       env.appendChild(a);
       var abusy=false, an=0;
       var areact=function(){ if(abusy) return; abusy=true; an=(an+1)%A.reacts.length; a.classList.add('purr'); floatLine(sp.x, Math.max(6,sp.y-A.w-6), A.reacts[Math.floor(rand(hashId(ZONE.id+an+'r'))*A.reacts.length)%A.reacts.length]); setTimeout(function(){ a.classList.remove('purr'); abusy=false; },2600); };

diff --git a/public/upstairs.html b/public/upstairs.html
@@ -37,10 +37,8 @@
   .astro{position:absolute;transform:translate(-50%,-100%);z-index:4;cursor:pointer;outline:none;}
   .astro .abody{position:relative;width:100%;transform-origin:bottom center;filter:drop-shadow(0 8px 16px rgba(0,0,0,.62));animation:breathe 5.5s ease-in-out infinite, stir 9s ease-in-out infinite;}
   .astro .abody img{display:block;width:100%;height:auto;}
-  .astro .abody .ablink{position:absolute;inset:0;opacity:0;animation:blink 6.4s ease-in-out infinite;}
   @keyframes breathe{0%,100%{scale:1 1;}50%{scale:1 1.014;}}
   @keyframes stir{0%,82%,100%{rotate:0deg;}90%{rotate:-1.5deg;}96%{rotate:.7deg;}}
-  @keyframes blink{0%,88%{opacity:0;}90%,91.5%{opacity:1;}93%{opacity:0;}94.5%,96%{opacity:1;}97.5%,100%{opacity:0;}}
   .astro.flip .abody{transform:scaleX(-1);}
   .astro .aglow{position:absolute;left:50%;bottom:4%;transform:translateX(-50%);width:126%;height:62%;border-radius:50%;pointer-events:none;mix-blend-mode:screen;opacity:0;background:radial-gradient(closest-side, rgba(190,210,255,.42), transparent 74%);transition:opacity .5s var(--ease);}
   .astro:hover .aglow,.astro:focus-visible .aglow,.astro.awake .aglow{opacity:.75;}
@@ -213,7 +211,7 @@
       var sp=A.spots[Math.floor(rand(hashId(ZONE.id+'-spot'))*A.spots.length)%A.spots.length];
       var a=document.createElement('div'); a.className='astro'+(sp.flip?' flip':''); a.tabIndex=0; a.setAttribute('role','button'); a.setAttribute('aria-label','Astro — '+A.line);
       a.style.left=sp.x+'%'; a.style.top=sp.y+'%'; a.style.width=A.w+'%';
-      a.innerHTML='<span class="aglow"></span><div class="abody"><img class="aopen" src="/assets/astro/'+sp.pose+'.png" alt="Astro"/><img class="ablink" src="/assets/astro/'+sp.pose+'-blink.png" alt=""/></div><span class="whisper"><span class="wl">'+A.line+'</span></span>';
+      a.innerHTML='<span class="aglow"></span><div class="abody"><img class="aopen" src="/assets/astro/'+sp.pose+'.png" alt="Astro"/></div><span class="whisper"><span class="wl">'+A.line+'</span></span>';
       env.appendChild(a);
       var abusy=false, an=0;
       var areact=function(){ if(abusy) return; abusy=true; an=(an+1)%A.reacts.length; a.classList.add('purr'); floatLine(sp.x, Math.max(6,sp.y-A.w-6), A.reacts[Math.floor(rand(hashId(ZONE.id+an+'r'))*A.reacts.length)%A.reacts.length]); setTimeout(function(){ a.classList.remove('purr'); abusy=false; },2600); };

diff --git a/docs/LIBRARY_MASTER.md b/docs/LIBRARY_MASTER.md
@@ -513,13 +513,14 @@ No object opens in a generic modal. Each collectible has its own presentation th
 
 Astro is a **transparent sprite layered above the room**, from Luna's sprite pack — never baked into a background. Stack: `room bg → objects → Astro (transparent PNG) → whispers`. Seven poses cut clean: sit, look-up, walk, red-bed, loaf, on-a-book, curled. The daily seed picks his **pose, his spot, and whether he's here at all** (some nights he's elsewhere; the Mirror he visits only rarely). He breathes gently, casts a real shadow, and on click reacts in-world — a soft glint and a line rising beside him — never a card.
 
-Live in the six roam rooms now (Fireplace, Main Table, Upstairs, Loose Pages, Mirror, Secret Patio). The three rooms with a cat **painted into the background** (Bookshelves, Hidden Desk, Terminal) keep that painted cat for now so there's never a double — **send cat-free background regens for those three and Astro roams there too.**
+Astro now **roams all nine rooms** — Luna's fixed backgrounds removed the painted cat from Bookshelves, Hidden Desk, and Terminal, so those three became roam rooms too. No more baked cat anywhere; he's a sprite everywhere. *(Idle: breathing + a gentle stir. The blink was tried and removed at Luna's call.)*
 
 ## Mobile — ✅ drag to look, tap to touch (9 Aug 2026)
 
 Desktop looked around with the mouse; a phone can't, so the room sat cropped and unreachable. Now, on touch devices, **drag horizontally to pan the camera** across the full-width room (clamped to the edges), and **tap once to reveal a thing, tap again to touch it** (a drag never triggers a tap). Applied across the Hub and all nine rooms. Desktop mouse-look is unchanged.
 
 ## Change log
+- **v1.6 — 9 Aug 2026** — Astro blink removed (kept breathing + stir). Four fixed backgrounds installed (Fireplace, Bookshelves, Terminal, Hidden Desk) — the fix removed the baked cat, so those three became roam rooms and Astro now roams all nine.
 - **v1.5 — 9 Aug 2026** — Mobile: touch drag-to-look-around + two-tap interaction across the Hub and all 9 rooms (mouse parallax was desktop-only, leaving phones static). Astro idle animation: two-frame **slow blink** (eyes-closed frame auto-generated per pose by detecting the eye pixels) plus a gentle idle **stir**, on top of breathing.
 - **v1.4 — 9 Aug 2026** — Interaction layer rebuilt: invisible-at-rest hotspots, placard whispers, category system (nav/artifact/ambient/lore/rare), in-world reactions for ambient + sit + Astro, object-matched verbs, lighter depth-of-field, mobile two-tap. Astro rebuilt as a transparent sprite layer (7 poses, seed-driven pose/spot/presence) across the six roam rooms. Open: cat-free backgrounds for Bookshelves/Hidden Desk/Terminal so Astro roams there; Astro idle animation (blink/tail via the face + tail sprites); walk-between-rooms.
 - **v1.3 — 9 Aug 2026** — Artifact Viewer engine BUILT and rolled to all 9 zones: per-type presentation (book / page / letter / object / mirror), rarity dressing through legendary "the House notices," depth-of-field blur behind, close-in-place. Elevated the "furniture, not a screen" law to the banner. Recorded the inventory-as-Your-Room philosophy.
